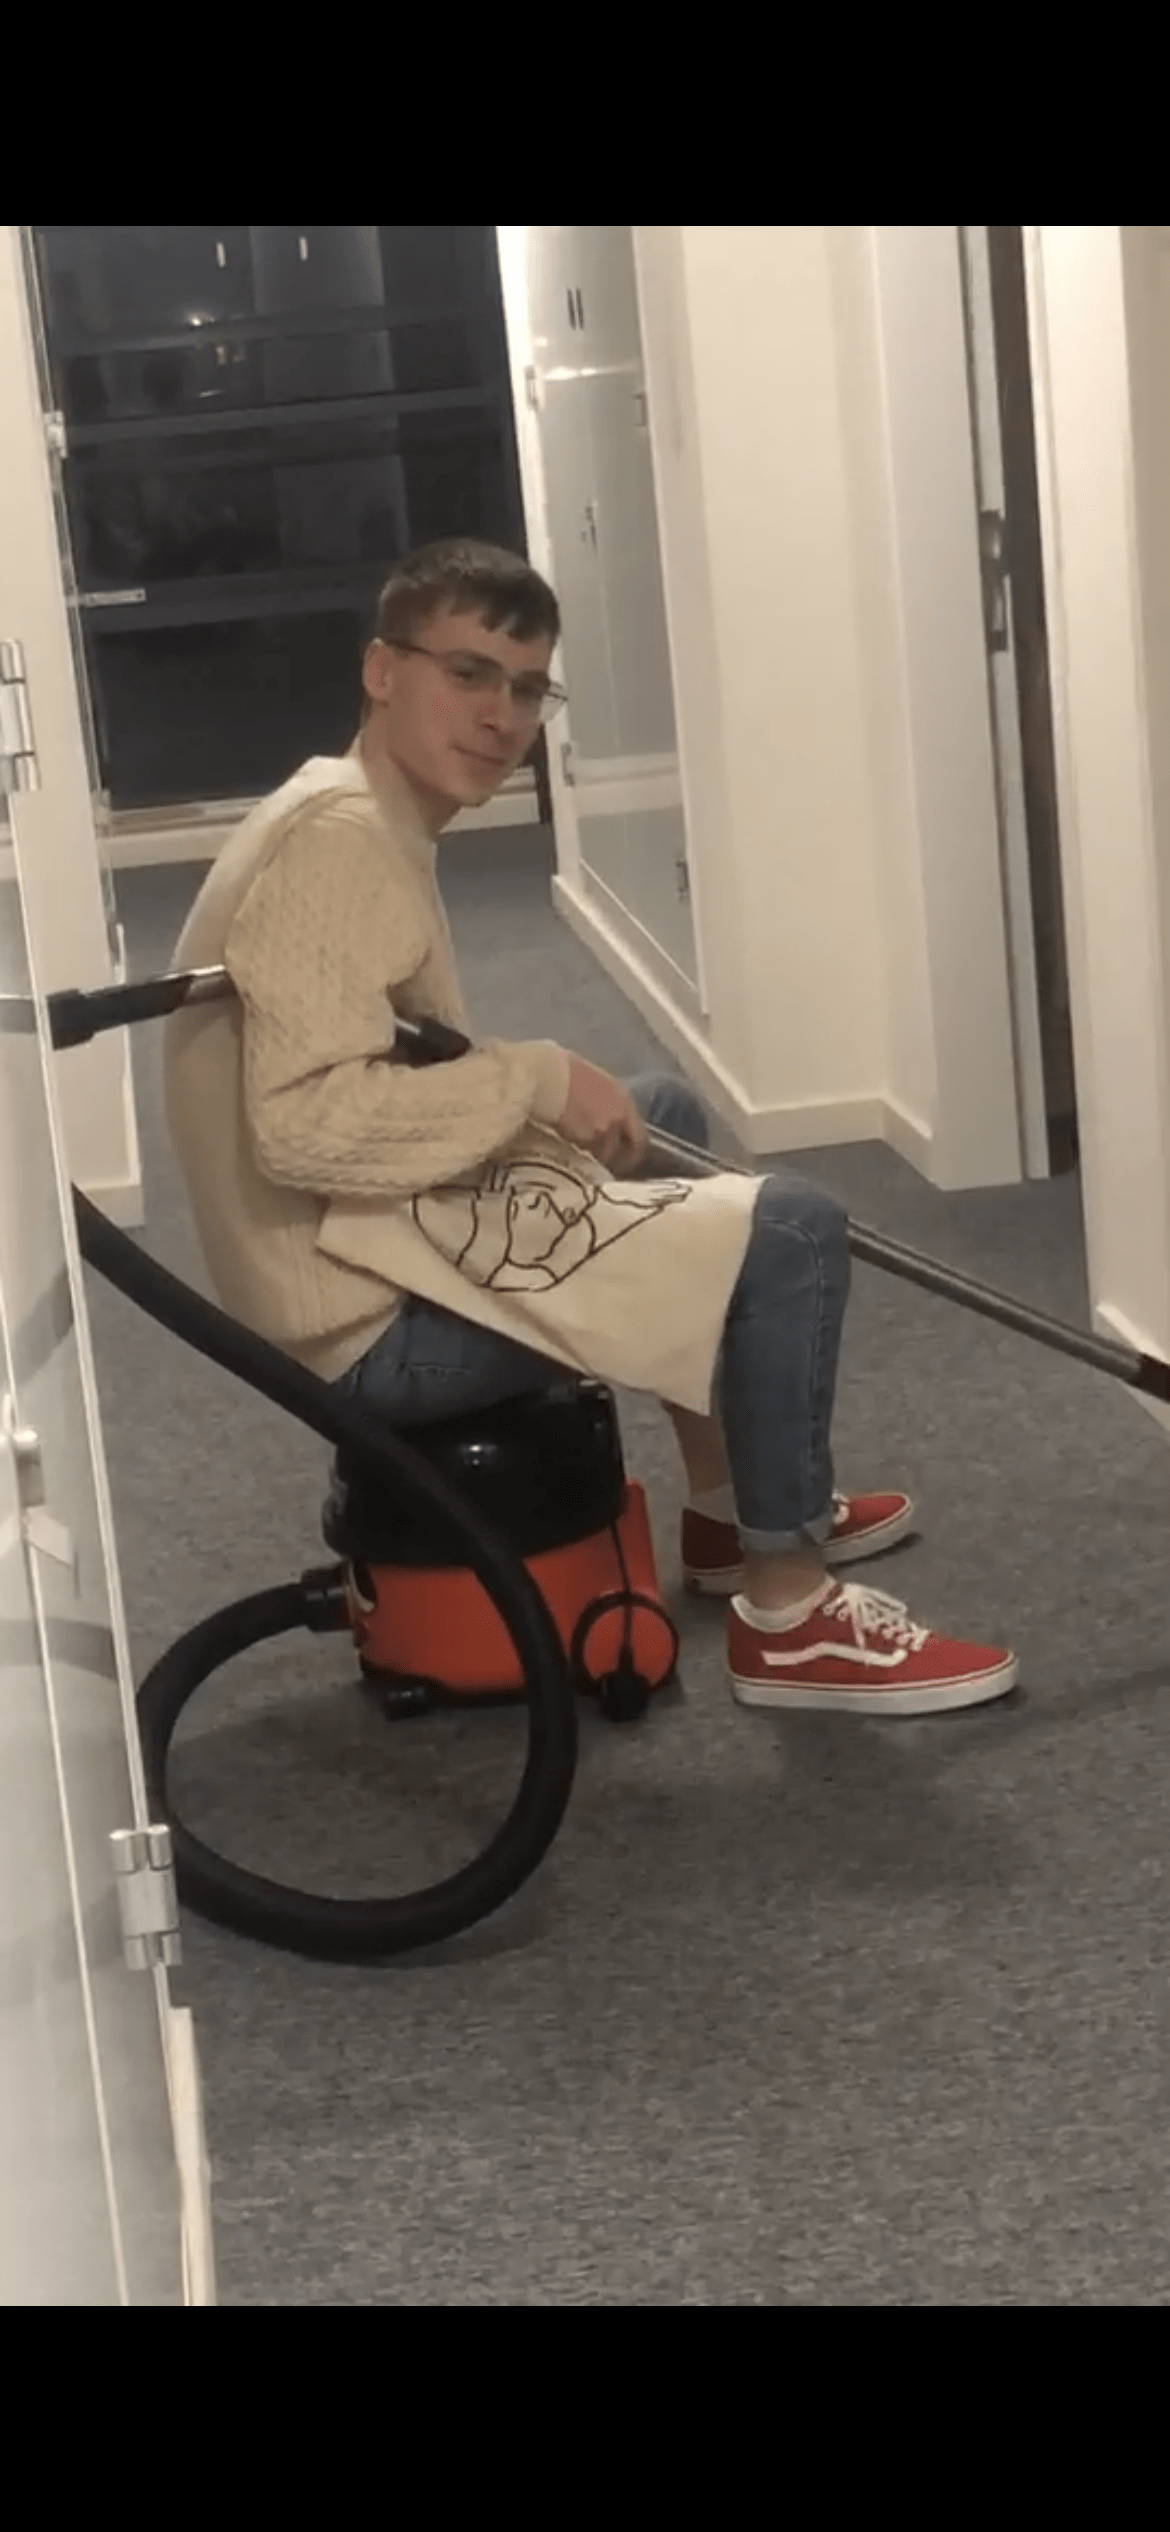
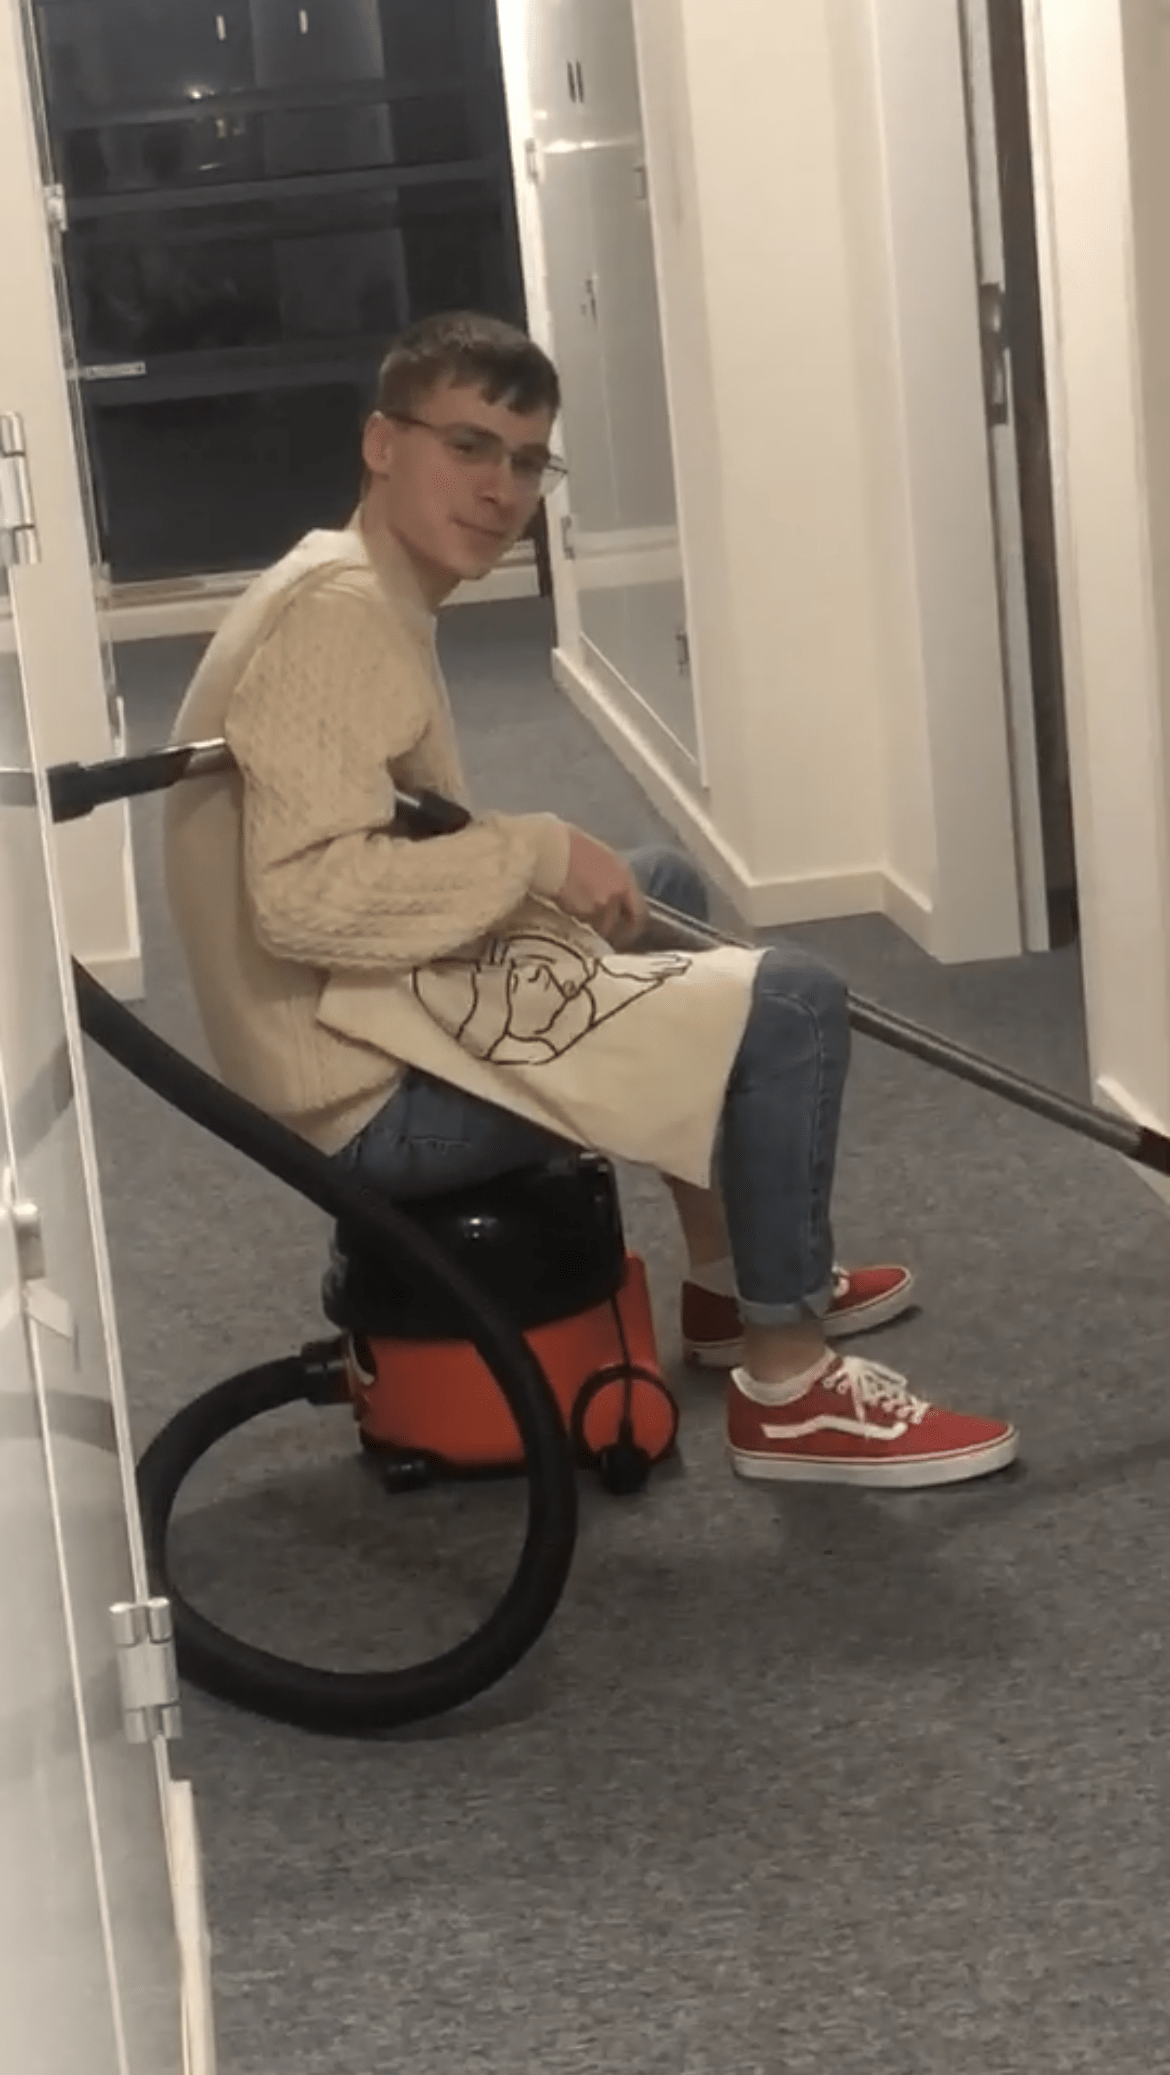
update: compressed large images

diff --git a/src/views/About.js b/src/views/About.js
@@ -5,7 +5,7 @@ import PhotoCard from './../components/PhotoCard'
 
 import jack from '../assets/Committee/jack.png'
 import adnan from '../assets/Committee/adnan.png'
-import amy from '../assets/Committee/amy.png'
+import amy from '../assets/Committee/amy.jpg'
 import tori from '../assets/Committee/tori.png'
 import anton from '../assets/Committee/anton.png'
 import ryu from '../assets/Committee/ryu.png'
@@ -14,12 +14,12 @@ import tom from '../assets/Committee/tom.png'
 import jude from '../assets/Committee/jude.png'
 import charlotte from '../assets/Committee/charlotte.png'
 import henry from '../assets/Committee/henry.png'
-import patrick from '../assets/Committee/patrick.png'
-import lukas from '../assets/Committee/lukas.png'
-import richerd from '../assets/Committee/richerd.png'
+import patrick from '../assets/Committee/patrick.jpg'
+import lukas from '../assets/Committee/lukas.jpg'
+import richerd from '../assets/Committee/richerd.jpg'
 import david from '../assets/Committee/david.png'
 import kei from '../assets/Committee/kei.png'
-import emily from '../assets/Committee/emily.png'
+import emily from '../assets/Committee/emily.jpg'
 import jamie from '../assets/Committee/jamie.png'
 import elias from '../assets/Committee/elias.png'
 
@@ -144,7 +144,7 @@ const About = () => {
       role: "Web Development",
       email: "david@hacksussex.com",
       githubLink: "https://github.com/davidfrommont",
-      linkedinLink: ""
+      linkedinLink: "https://www.linkedin.com/in/david-frommont/"
     },
     {
       imageUrl: kei,

diff --git a/src/events.js b/src/events.js
@@ -92,7 +92,7 @@ const events = [
     "cost": "Free"
   },
   {
-    "image": require("./assets/events/gamejam23.png"),
+    "image": require("./assets/events/gamejam23.jpg"),
     "title": "Game Jam",
     "description": "Our newest annual event, the HackSussex Gamejam, aims to focus in on the game design, development and publishing scene to allow many of our amazing local studios to share their expertise with our jammers and allow them to flex their skills in game design and development. \n\nMuch like our hackathon, the game jam provides full meals throughout the weekend, allowing teams to focus on their project and produce the best indie games and tools to showcase to the judging panel at the end of the event and take home some amazing prizes.",
     "location": "Sussex Campus - Chichester 1 Building",
@@ -101,7 +101,7 @@ const events = [
     "cost": "Free"
   },
   {
-    "image": require("./assets/events/robotics.png"),
+    "image": require("./assets/events/robotics.jpg"),
     "title": "Robotics",
     "description": "New this year! We are hosting weekly robotics sessions, aimed at introducing students to simple robotics projects. Throughout which you will learn many of the basics of electronic signalling and control. This will cover motors, sensors, micro controller circuitry and more! \n\n Interested in giving it a try? Check out our discord section on robotics and turn up to the weekly sessions to get stuck in!",
     "location": "Sussex Campus, Chichester 1 Building, Future Technology Lab (FTL)",
